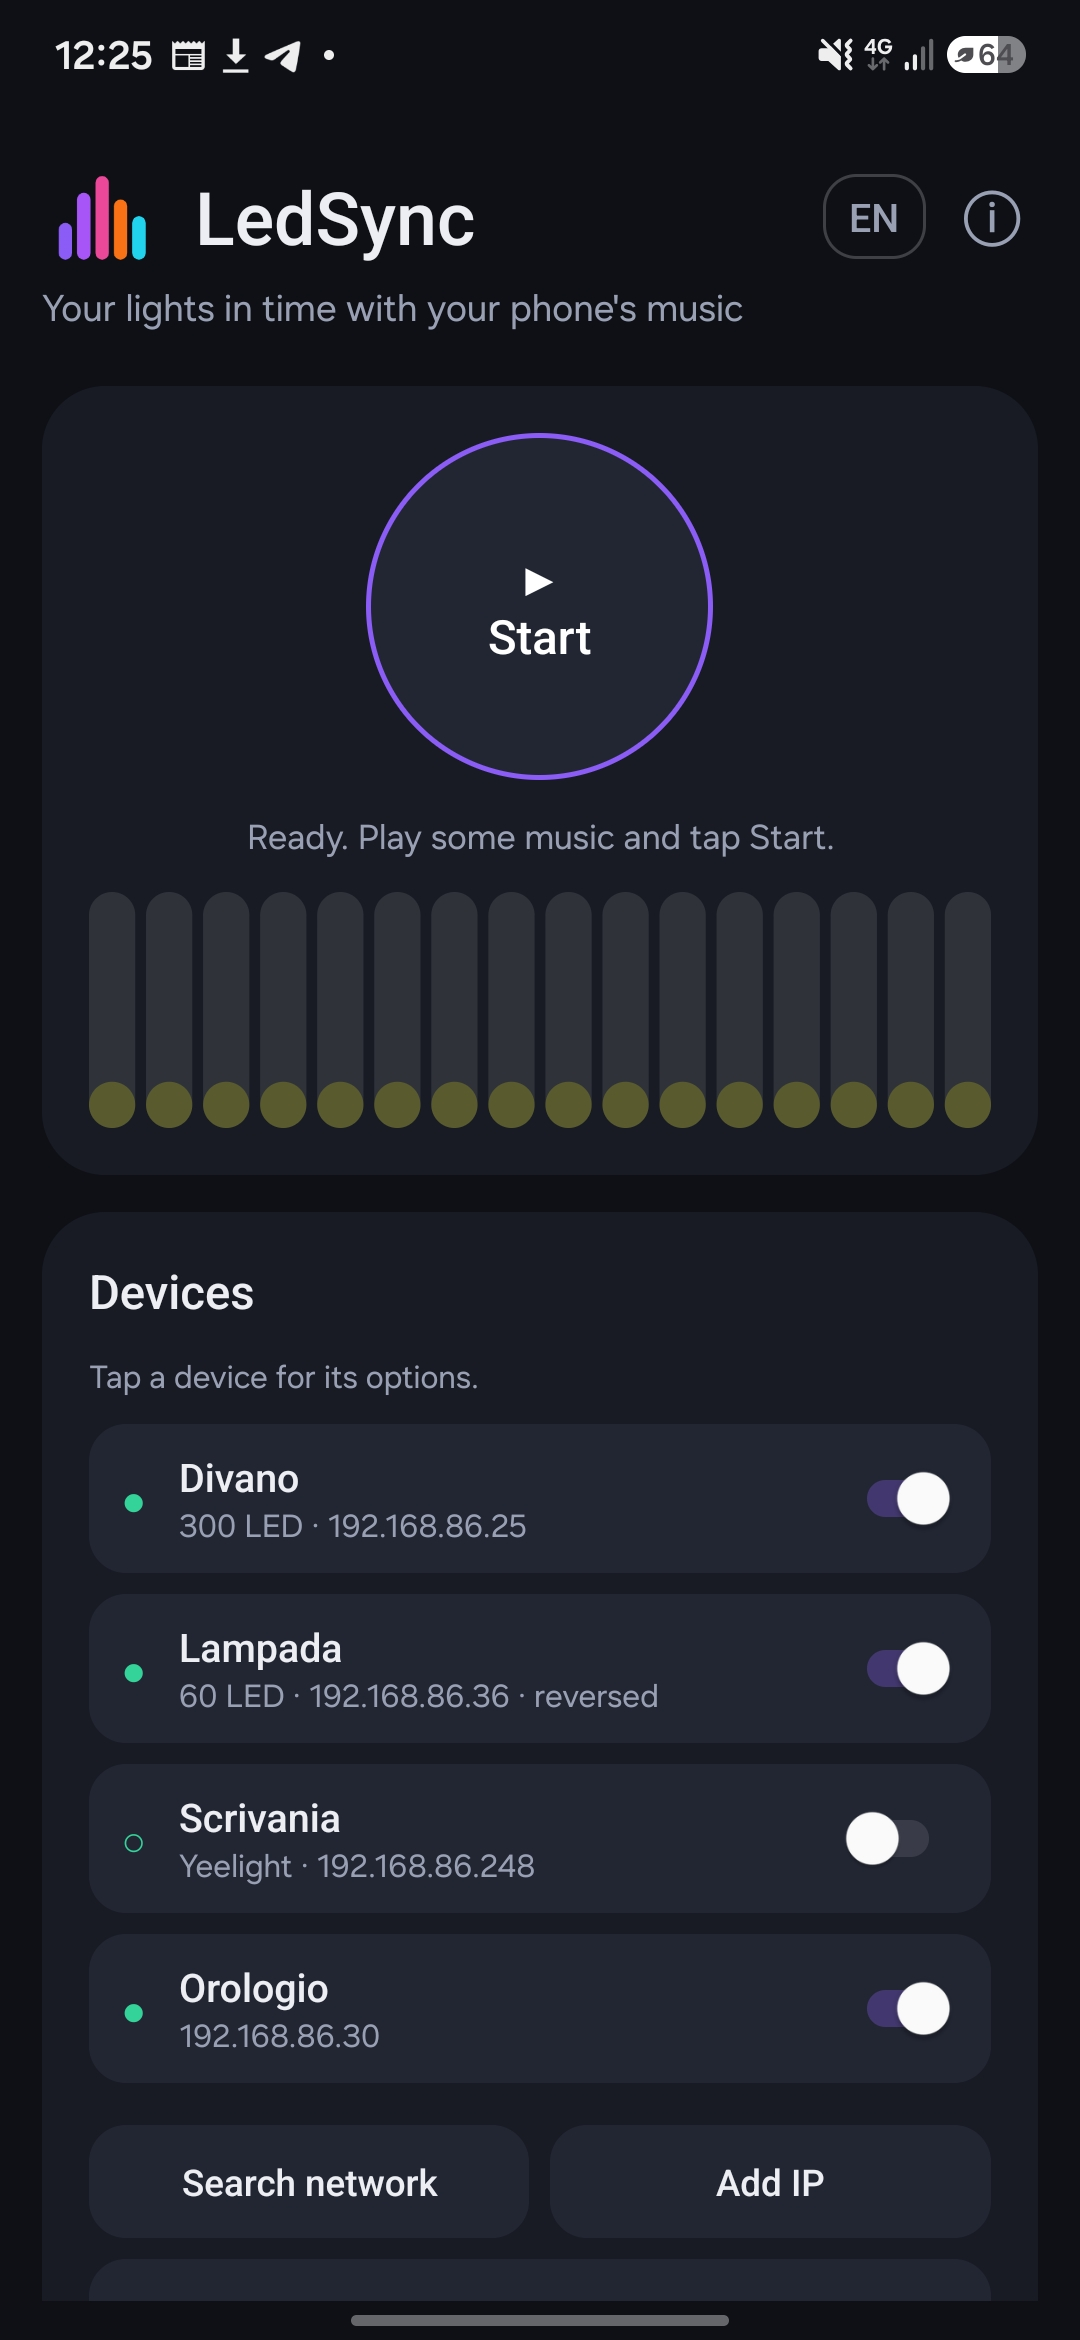
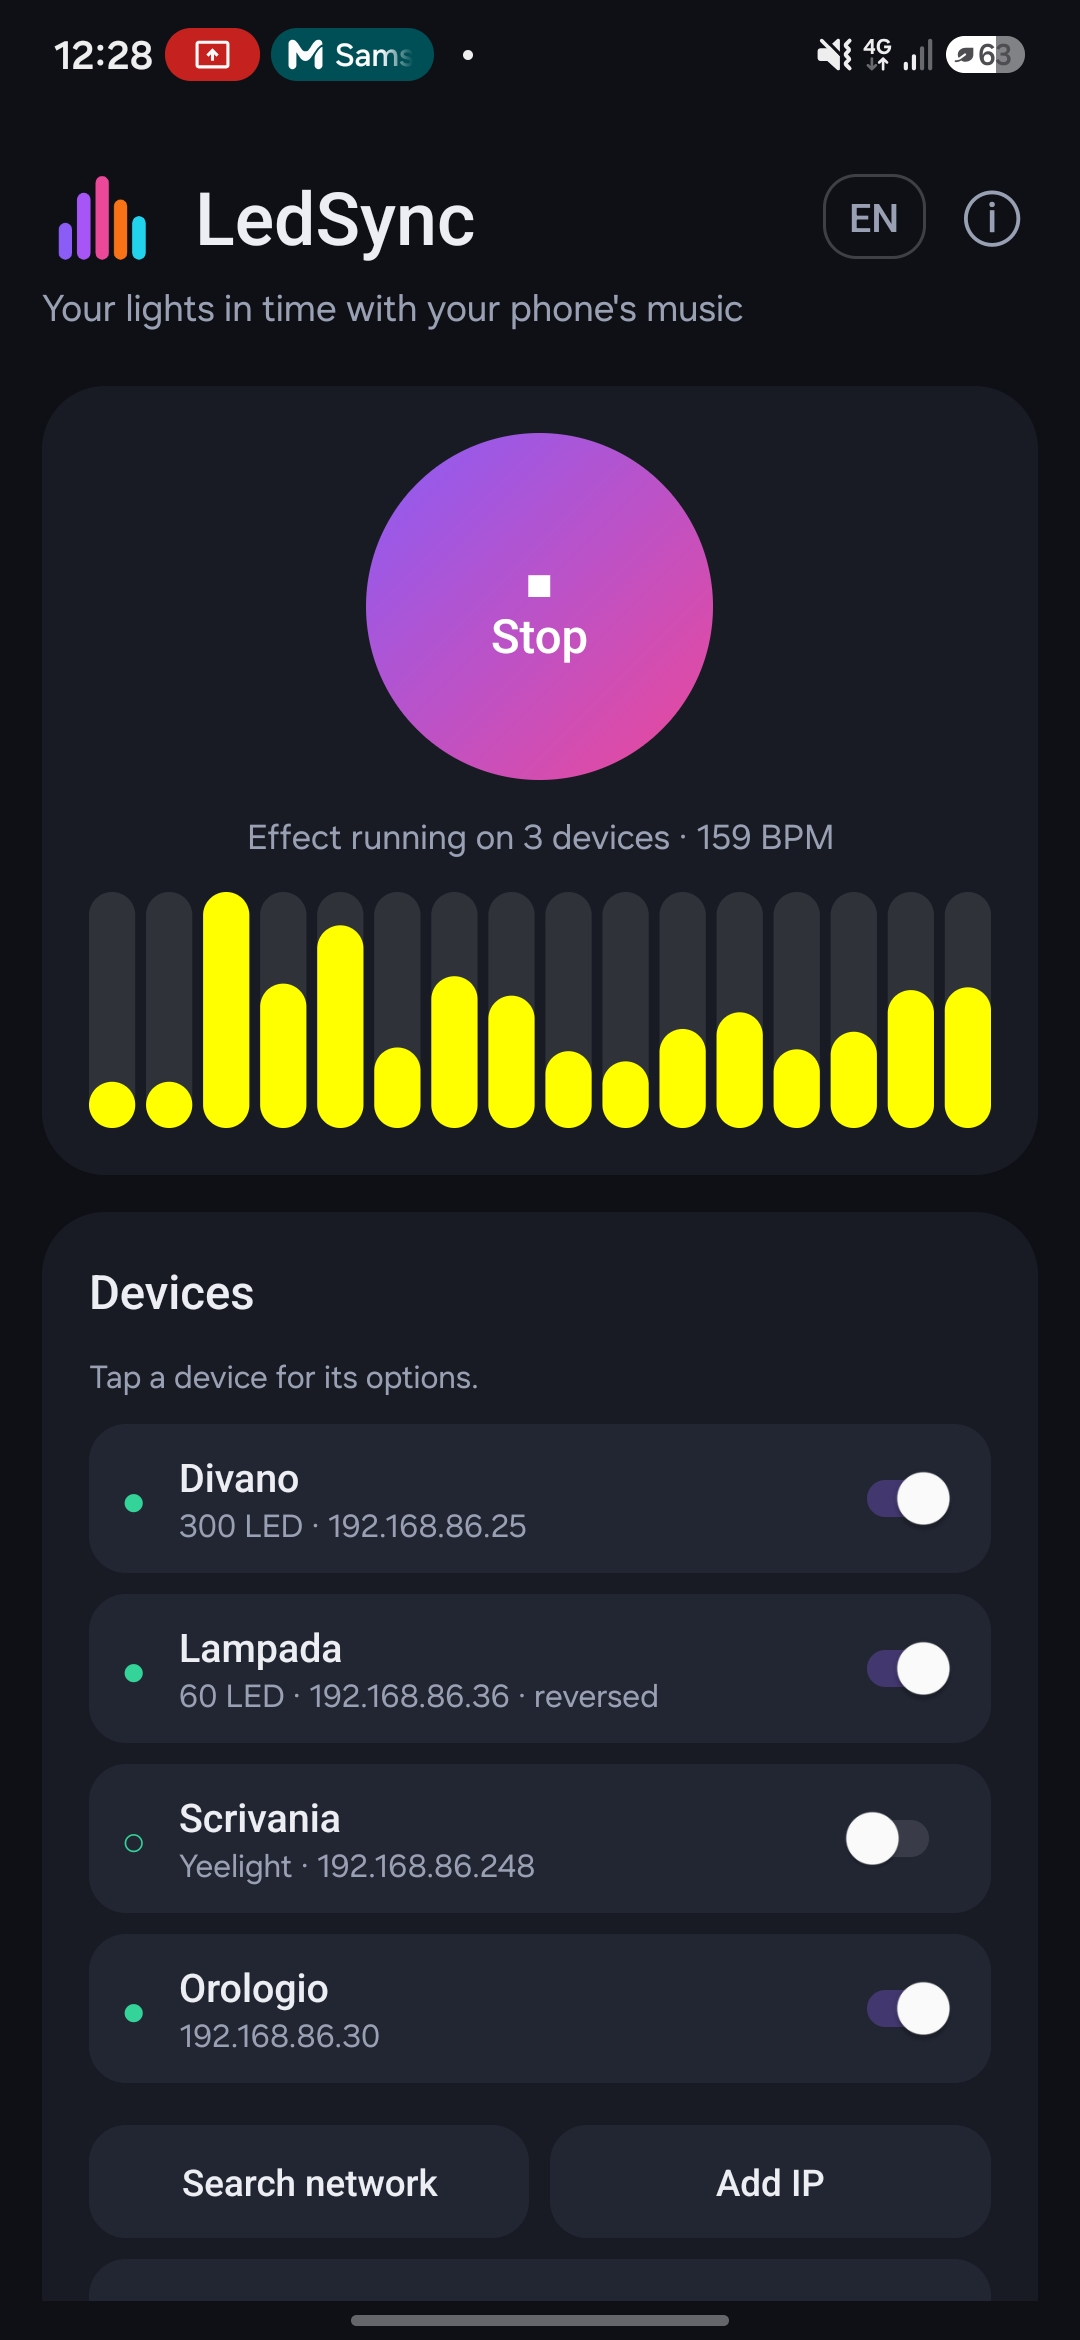
Screenshots with music playing
Claude-Session: https://claude.ai/code/session_01MCABJKEKet4J3ZR9dzENrd

diff --git a/README.it.md b/README.it.md
@@ -5,8 +5,10 @@ Spotify, YouTube, qualsiasi app: LedSync ascolta l'audio del telefono, lo analiz
 lo spettacolo di luci alle tue luci via Wi-Fi. Non serve un microfono sull'ESP32, né un PC, né LedFx.
 
 <p align="center">
-  <img src="fastlane/metadata/android/en-US/images/phoneScreenshots/1.jpg" width="260" alt="Screenshot 1">
-  <img src="fastlane/metadata/android/en-US/images/phoneScreenshots/2.jpg" width="260" alt="Screenshot 2">
+  <img src="fastlane/metadata/android/en-US/images/phoneScreenshots/1.jpg" width="200" alt="Screenshot 1">
+  <img src="fastlane/metadata/android/en-US/images/phoneScreenshots/2.jpg" width="200" alt="Screenshot 2">
+  <img src="fastlane/metadata/android/en-US/images/phoneScreenshots/3.jpg" width="200" alt="Screenshot 3">
+  <img src="fastlane/metadata/android/en-US/images/phoneScreenshots/4.jpg" width="200" alt="Screenshot 4">
 </p>
 
 ## Funzioni

diff --git a/README.md b/README.md
@@ -7,8 +7,10 @@ and streams the light show to your lights over Wi-Fi. No microphone on the ESP32
 [Leggi in italiano](README.it.md)
 
 <p align="center">
-  <img src="fastlane/metadata/android/en-US/images/phoneScreenshots/1.jpg" width="260" alt="Screenshots 1">
-  <img src="fastlane/metadata/android/en-US/images/phoneScreenshots/2.jpg" width="260" alt="Screenshots 2">
+  <img src="fastlane/metadata/android/en-US/images/phoneScreenshots/1.jpg" width="200" alt="Screenshots 1">
+  <img src="fastlane/metadata/android/en-US/images/phoneScreenshots/2.jpg" width="200" alt="Screenshots 2">
+  <img src="fastlane/metadata/android/en-US/images/phoneScreenshots/3.jpg" width="200" alt="Screenshots 3">
+  <img src="fastlane/metadata/android/en-US/images/phoneScreenshots/4.jpg" width="200" alt="Screenshots 4">
 </p>
 
 ## Features
